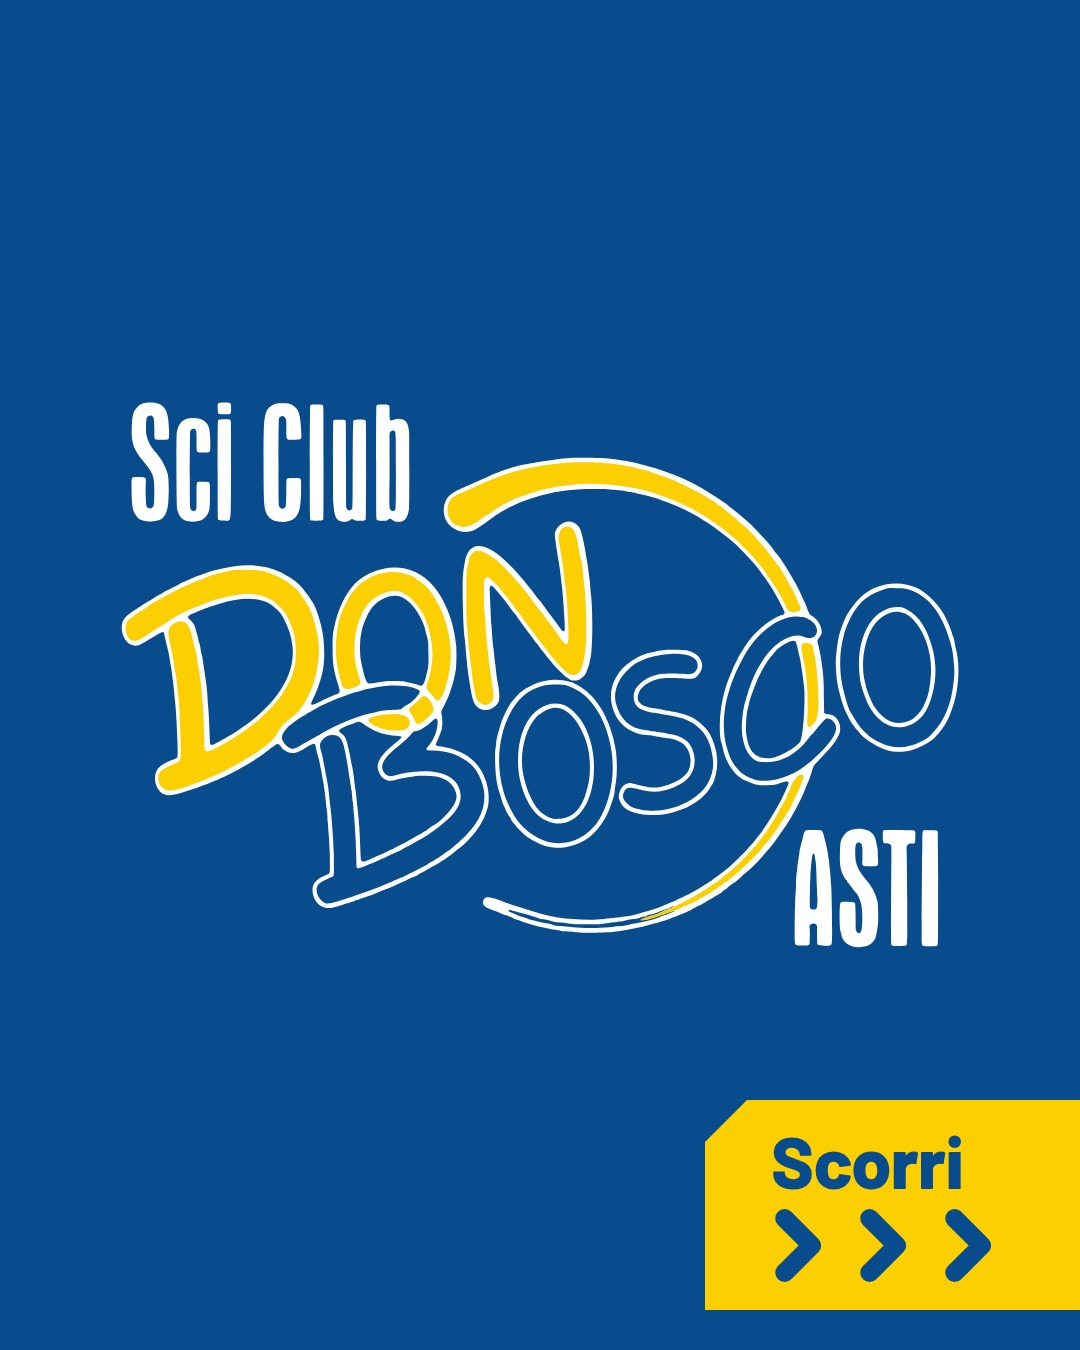
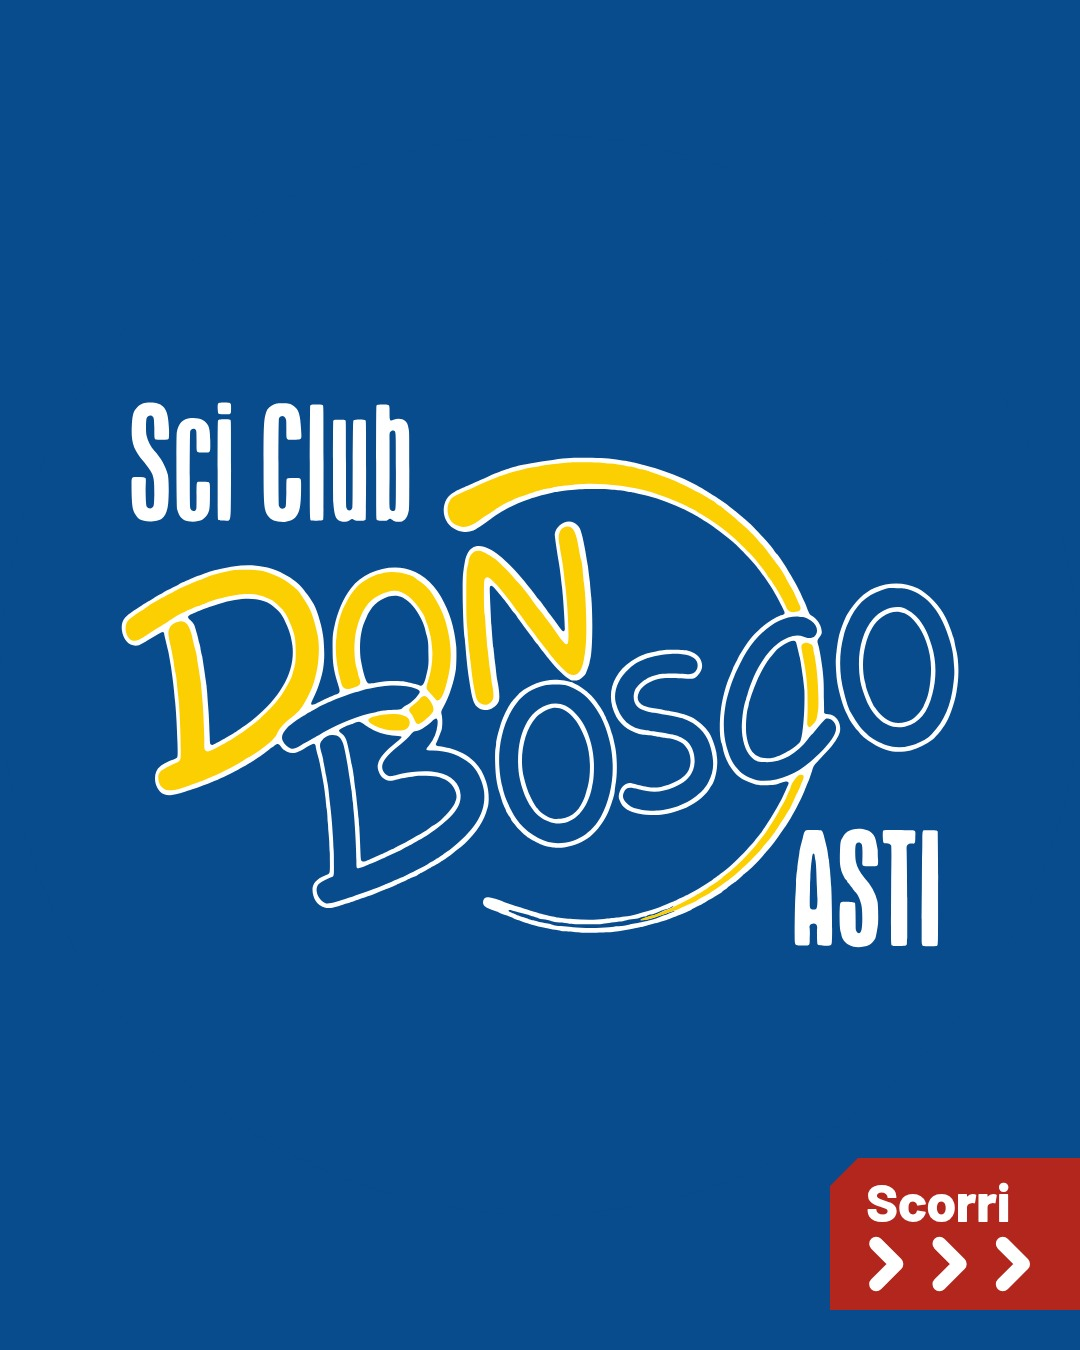
fix(grafica): linguetta «Scorri» rossa e della stessa misura in tutto il carosello
La linguetta ha ora le stesse misure in copertina e nel post e usa il rosso delle gite del martedì,
con scritta e frecce bianche.

Changed region(s): [[0.6417, 0.8089, 1.0, 0.9956]]

diff --git a/grafica/presciistica-carosello/sorgenti/carosello.html b/grafica/presciistica-carosello/sorgenti/carosello.html
@@ -19,12 +19,10 @@
     /* Copertina: il logo del post «Don Bosco mode: on» a tutta larghezza; il suo cerchio ha lo stesso blu del fondo. */
     #logo-grande { position: absolute; left: 0; top: 135px; width: 1080px; height: 1080px; }
 
-    /* Invito a scorrere, uguale in copertina e nel post: una linguetta gialla appesa al bordo destro, con l'angolo tagliato come la tessera. */
-    .scorri { position: absolute; right: 0; bottom: 40px; font-family: Barlow, sans-serif; width: 250px; padding: 16px 30px 18px 44px; background: #FCCF02; color: #084C8D;
-      clip-path: polygon(28px 0, 100% 0, 100% 100%, 0 100%, 0 28px); font-size: 48px; font-weight: 800; line-height: 1; letter-spacing: -.01em; }
-    .scorri svg { display: block; width: 170px; height: 50px; margin-top: 8px; }
-    /* In copertina c'è solo il logo: la linguetta può essere più grande. */
-    .pagina > .scorri { transform: scale(1.5); transform-origin: 100% 100%; }
+    /* Invito a scorrere, uguale in copertina e nel post: una linguetta rossa (quella delle gite del martedì) appesa al bordo destro, con l'angolo tagliato come la tessera. */
+    .scorri { position: absolute; right: 0; bottom: 40px; font-family: Barlow, sans-serif; width: 250px; padding: 16px 24px 18px 36px; background: #B3261E; color: #fff;
+      clip-path: polygon(28px 0, 100% 0, 100% 100%, 0 100%, 0 28px); font-size: 54px; font-weight: 800; line-height: 1; letter-spacing: -.01em; }
+    .scorri svg { display: block; width: 190px; height: 56px; margin-top: 8px; }
 
     /* Finale: le misure di grafica/video-stagione/compositions/frames/05-seguici.html, sul formato del post. */
     #bosco { position: absolute; inset: 0; width: 100%; height: 100%; object-fit: cover; }

diff --git a/grafica/presciistica-carosello/README.md b/grafica/presciistica-carosello/README.md
@@ -3,7 +3,7 @@
 Tre pagine 1080×1350 per Instagram e Facebook, da pubblicare in quest'ordine:
 
 1. `presciistica-1.jpg`: la copertina, con il logo del post «Don Bosco mode: on» al centro del fondo blu e la
-   linguetta gialla «Scorri» con le tre frecce in basso a destra.
+   linguetta rossa «Scorri» con le tre frecce in basso a destra.
 2. `presciistica-2.jpg`: l'attività riservata ai soci, disegnata con le funzioni del generatore dei post
    (`web/social-templates.js`) nella grafica K · Piani del post pubblicato su Facebook il 16/10/2026.
    La tessera dice «ogni mercoledì» invece della data di inizio; in basso a destra c'è la linguetta «Scorri».
